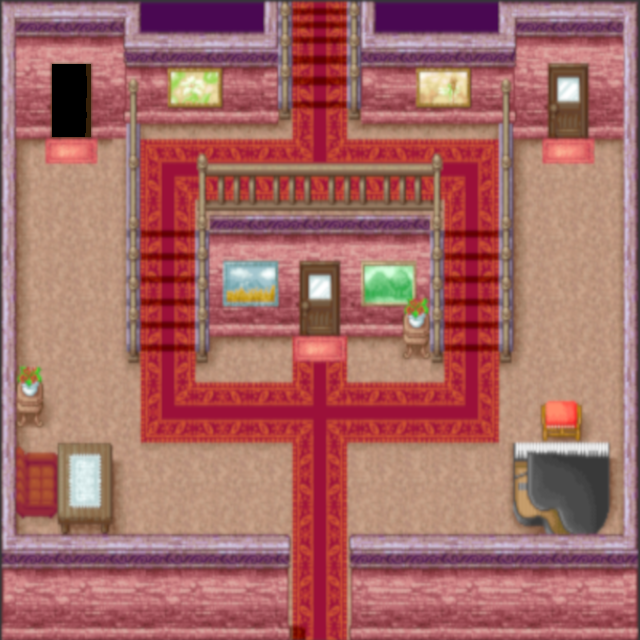
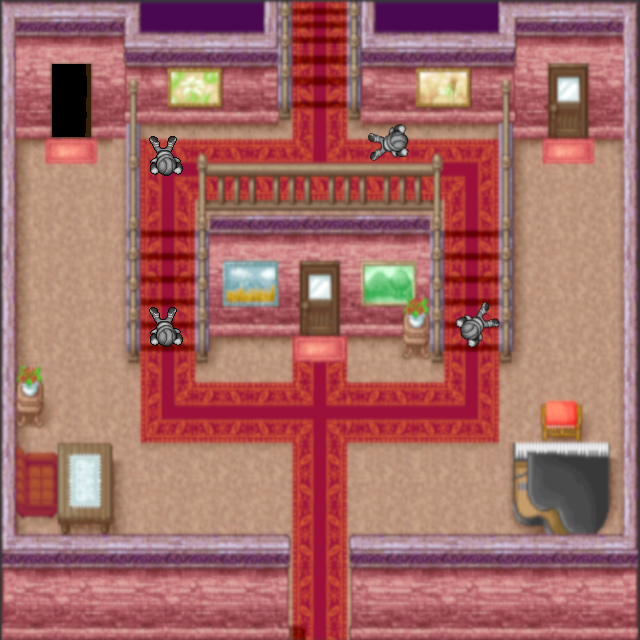
Enemigo misterioso y fin casa gobernador

diff --git a/Proy_JuegoRol/src/juego/Constantes.java b/Proy_JuegoRol/src/juego/Constantes.java
@@ -34,18 +34,24 @@ public class Constantes {
 	public static final String TEXTURAS_PUEBLO_2 = "/texturas/Villa01.png";
 	public static final String TEXTURAS_CASA_GOBERNADOR_PLANTA_BAJA = "/texturas/mansion_p_01.png";
 	public static final String TEXTURAS_CASA_GOBERNADOR_HABITACION = "/texturas/mansion_h_01.png";
+	public static final String TEXTURAS_CASA_GOBERNADOR_HABITACION_2 = "/texturas/mansion_h_02.png";
 	
 	
 	// IMAGENES
 	public static final String HOJA_PERSONAJE_1 = "/personaje/001.png";
 	public static final String PERSONAJE = "/personaje/psCombate.png";
-	public static final String BOTMAN = "/enemigos/botman.png";
-	public static final String RECAUDADOR = "/enemigos/recaudador.png";
+	
 	public static final String ATAQUE = "/imagenes/explosion.png";
 	public static final String CURA = "/imagenes/cruz.png";
 	public static final String FUEGO = "/imagenes/fuego.png";
 	public static final String HIELO = "/imagenes/Hielo.png";
 	public static final String RAYO = "/imagenes/rayo.png";
+	
+	// IMAGENES ENEMIGOS
+	public static final String BOTMAN = "/enemigos/botman.png";
+	public static final String RECAUDADOR = "/enemigos/recaudador.png";
+	public static final String MISTERIOSO = "/enemigos/misterioso.png";
+
 	
 	// MAPAS
 	public static final String MAPA_PRUEBA_1 = "/mapas/prueba/mapa001.txt";

diff --git a/Proy_JuegoRol/src/juego/herramientas/SeleccionadorHojaSprite.java b/Proy_JuegoRol/src/juego/herramientas/SeleccionadorHojaSprite.java
@@ -51,6 +51,9 @@ public class SeleccionadorHojaSprite {
 		case "9":
 			hs = new HojaSprites(Constantes.TEXTURAS_CASA_GOBERNADOR_HABITACION, 32, true);
 			break;
+		case "10":
+			hs = new HojaSprites(Constantes.TEXTURAS_CASA_GOBERNADOR_HABITACION_2, 32, true);
+			break;
 		default:
 			break;
 		}
